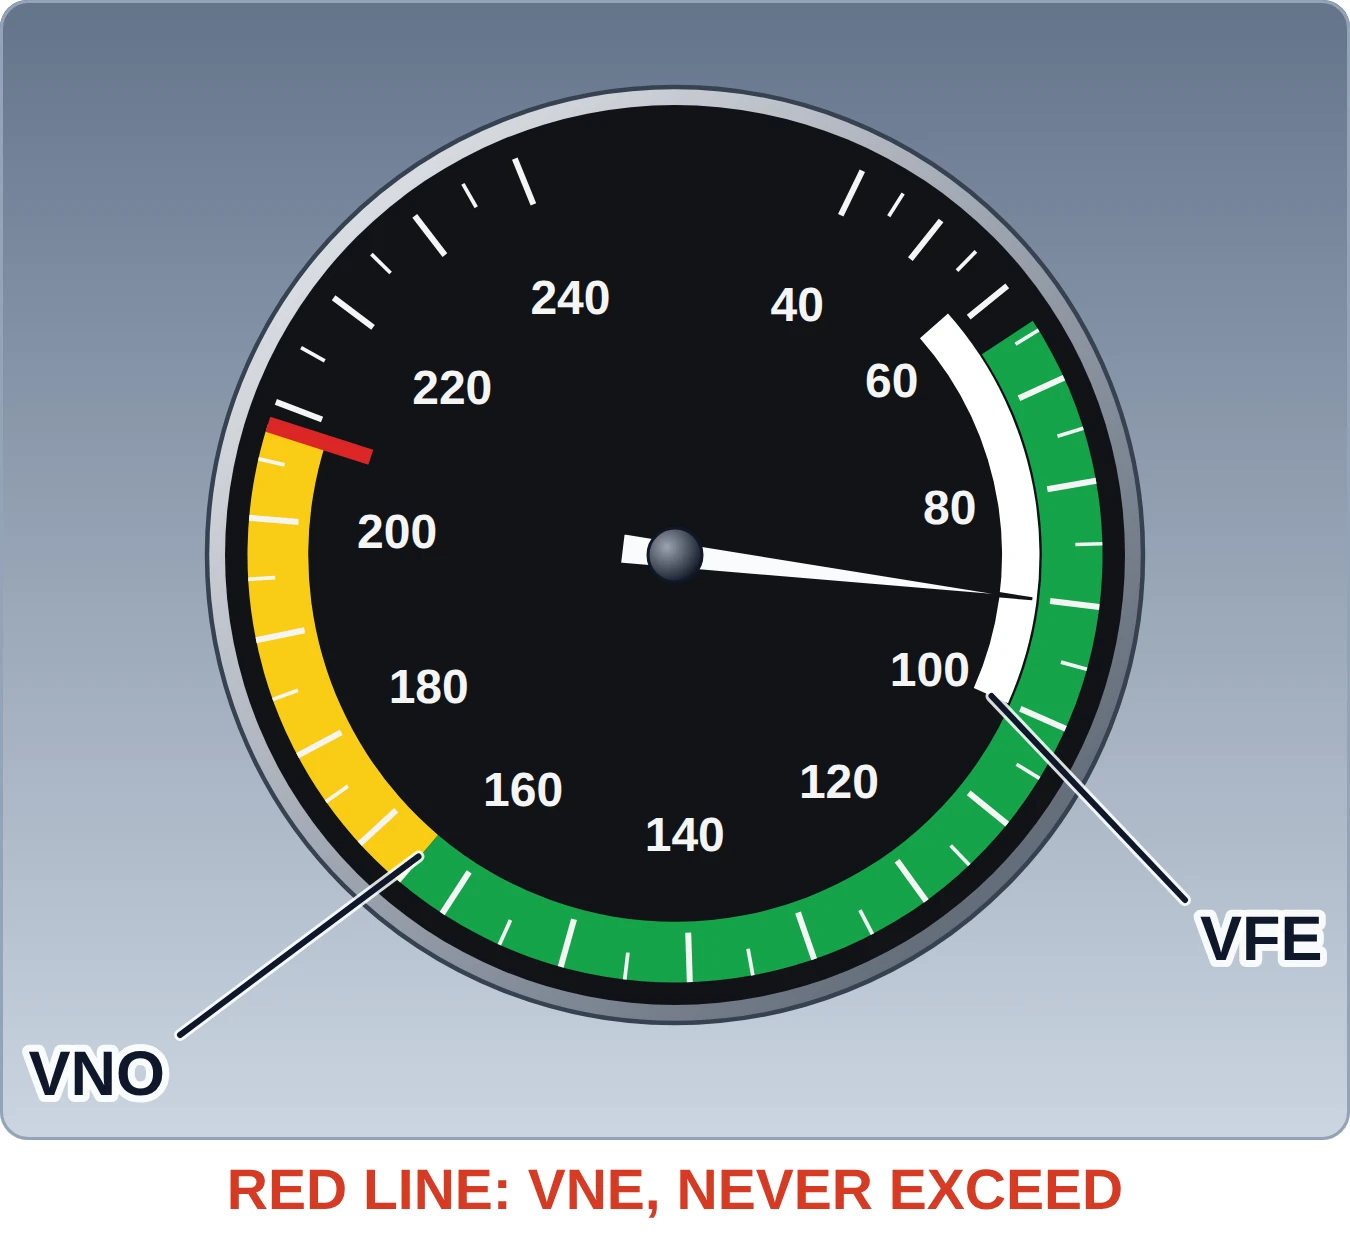
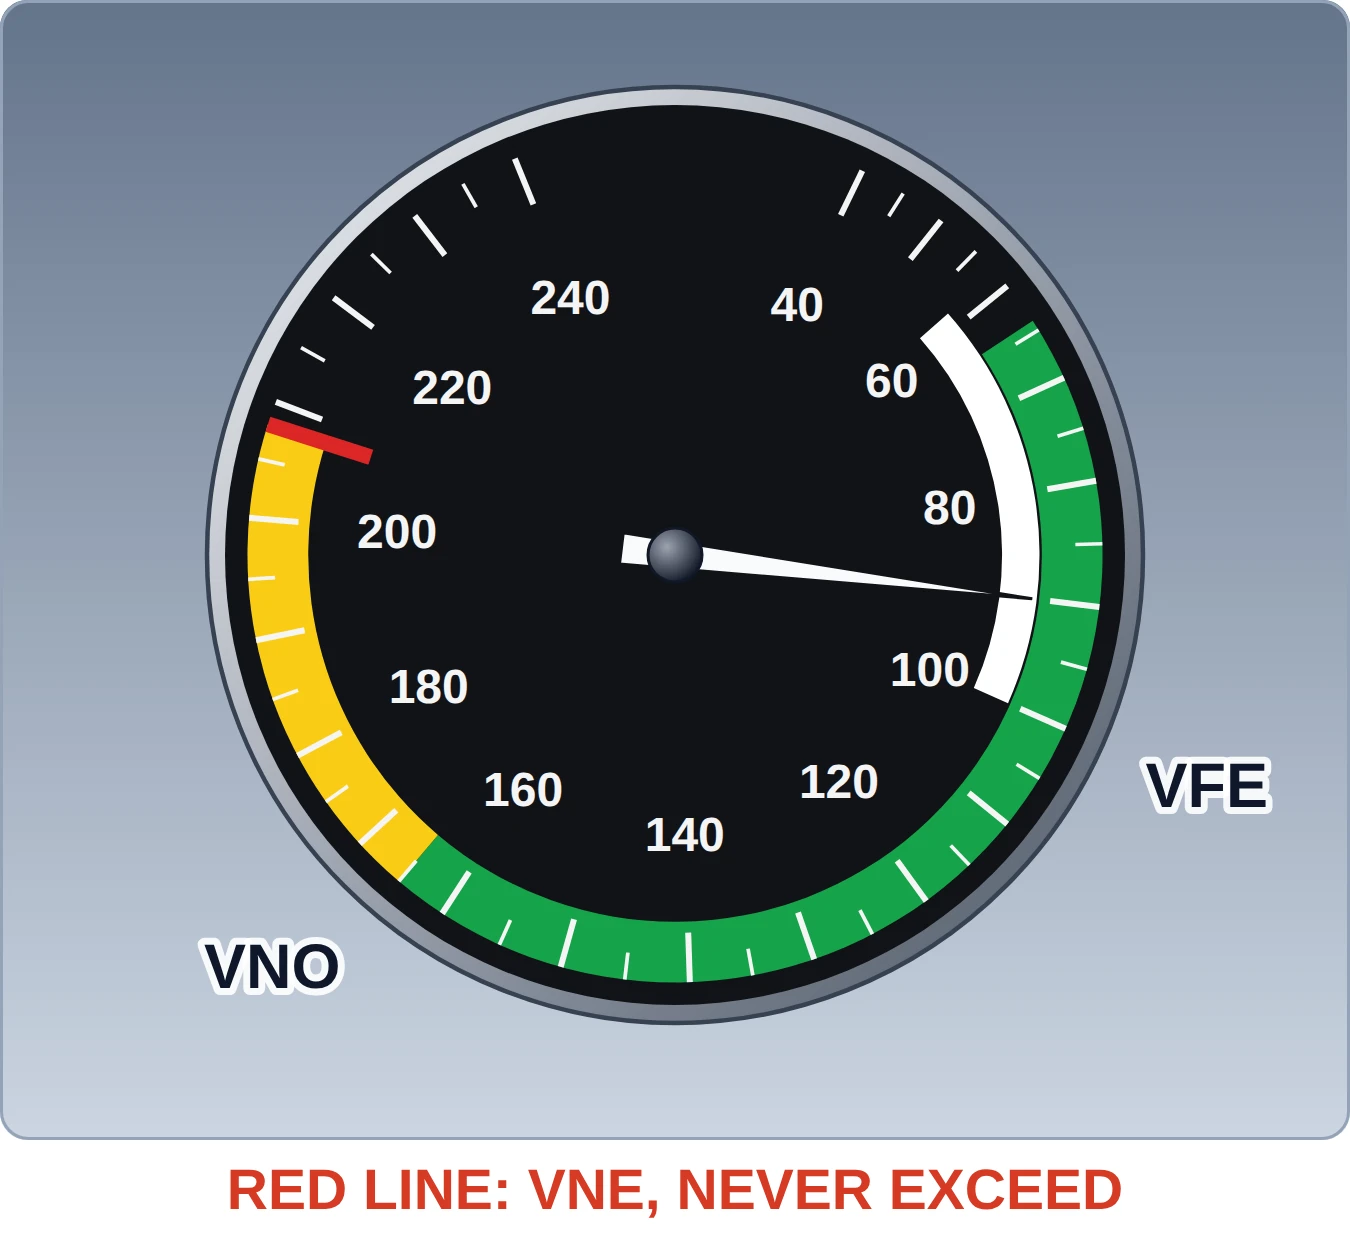
Airspeed indicator picture: labels without leader lines; path rule in the standard
VFE and VNO now sit just outside the rim beside the ends of their arcs,
as the standard asks (no leader lines). The standard gains the flight
path rule: one smooth curve, the aircraft on its own path, the
arrowhead clear of the aircraft and labels.

Claude-Session: https://claude.ai/code/session_01Rrv2AtHbYfafAcVfvxwyxc

diff --git a/scripts/trial_visuals/fp_phone.py b/scripts/trial_visuals/fp_phone.py
@@ -539,10 +539,11 @@ def asi_panel():
         from scene import asi_angle, compass_xy
         cx, cy, r = 450, 370, 300
         s = asi_dial(cx, cy, r, needle=90)
-        vfe = compass_xy(cx, cy, r * 0.77, asi_angle(100))
-        vno = compass_xy(cx, cy, r * 0.88, asi_angle(165))
-        s += line(vfe, (790, 600), INK, w=4) + label(800, 640, "VFE", TXT_L, INK)
-        s += line(vno, (120, 690), INK, w=4) + label(110, 730, "VNO", TXT_L, INK, "end")
+        # each label sits just outside the rim, beside the end of its arc
+        vx, vy = compass_xy(cx, cy, r * 1.13, asi_angle(100))
+        nx, ny = compass_xy(cx, cy, r * 1.13, asi_angle(165))
+        s += label(vx + 4, vy + 30, "VFE", TXT_L, INK)
+        s += label(nx - 4, ny + 30, "VNO", TXT_L, INK, "end")
         return s
     return dict(h=ASI_H, sky="sky_grey", draw=draw, color=RED, caption="RED LINE: VNE, NEVER EXCEED")
 

diff --git a/docs/EXPLANATION_ILLUSTRATION_STANDARD.md b/docs/EXPLANATION_ILLUSTRATION_STANDARD.md
@@ -41,6 +41,12 @@ for that size first; desktop is the easy case.
   corners, thin grey border (`scene.stack`).
 - **The physics is drawn as flow.** Three smooth parallel streamlines with
   arrowheads, strongest nearest the surface, fading outwards.
+- **Flight paths are one smooth curve** (`fp_phone.curve` / `track`). The
+  aircraft sits on its own path — main wheels on the line, turned to the
+  path's direction or its real attitude (`fp_phone.plane_on`) — and the
+  arrowhead ends clear of the aircraft and the labels. Paths depart from a
+  reference line gradually (e.g. wind shear leaving the glide path), never
+  with a kink or a loop; reference lines (glide path, ground roll) are dashed.
 - **Labels sit on the picture** with a soft halo. No leader lines, call-out
   boxes, pills or tables.
 - **A caption under each panel** in the panel's colour, naming the answer
